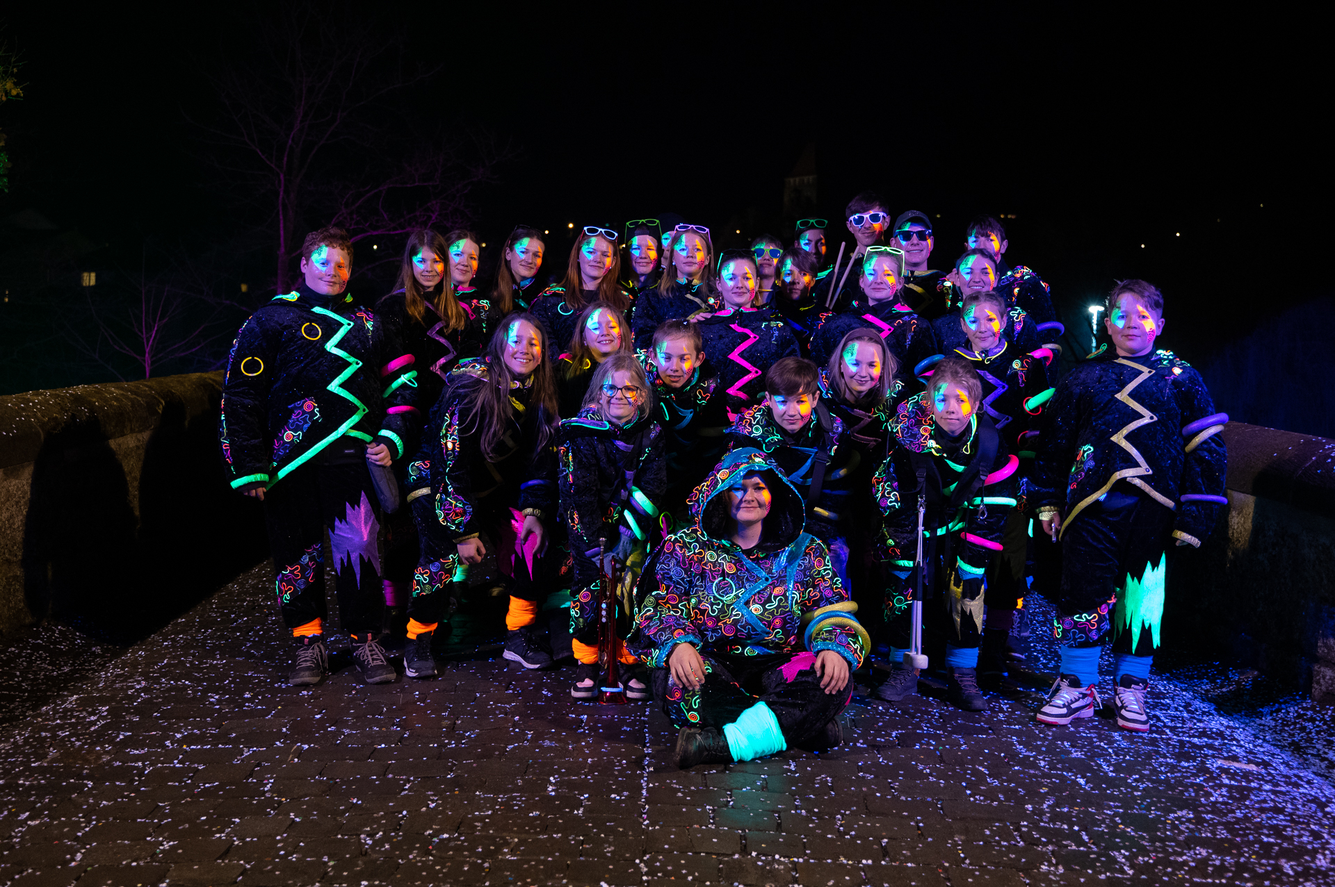
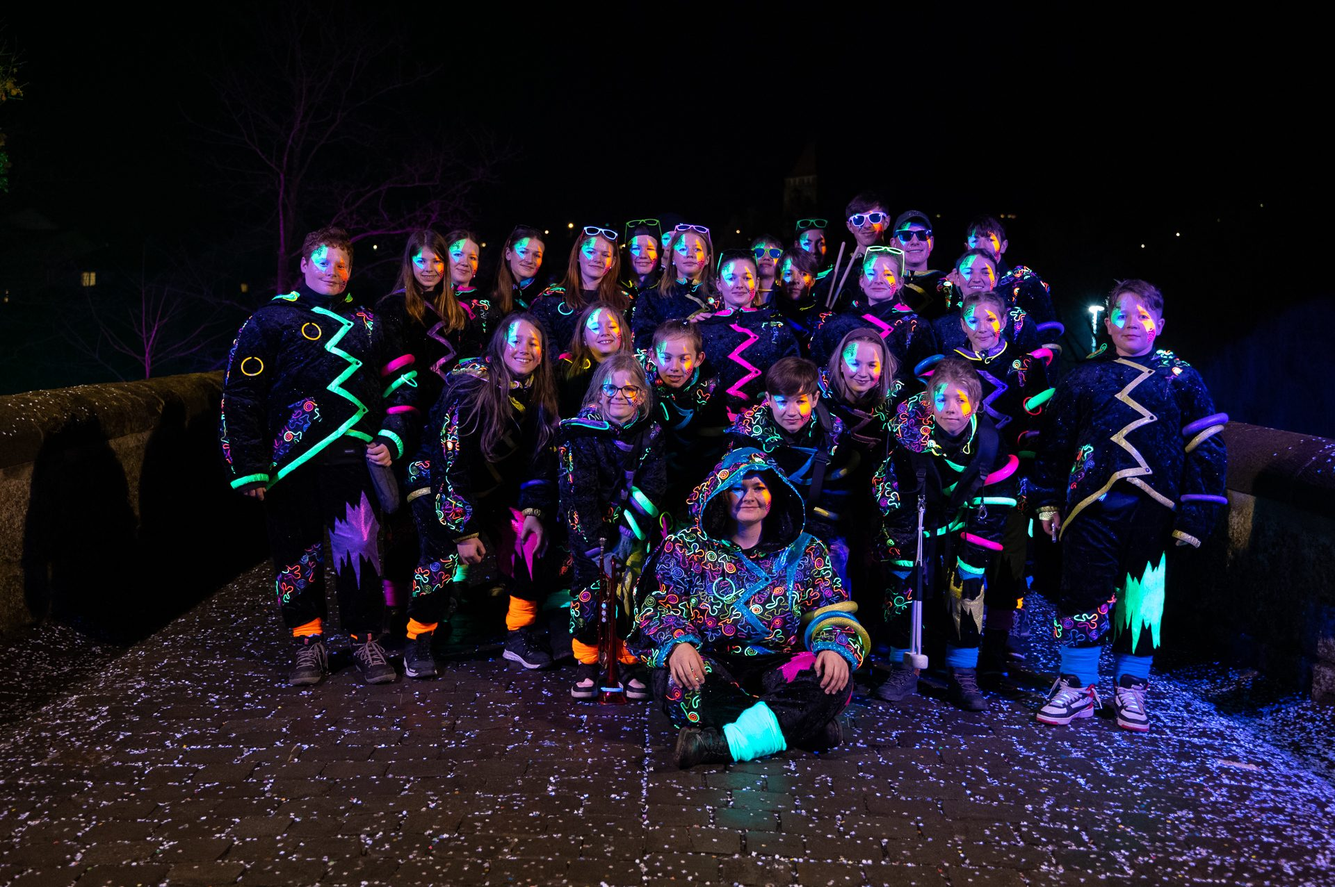
perf(web): bring the image directory from 44.5 MB down to 6 MB
directionmusicale.jpg alone was 19 MB at 6048x4024, and nine more photos were
over 2 MB each — a compression problem rather than a dimension one, since most
were already 1920px wide. Longest edge 1920, JPEG q82, progressive, EXIF
stripped. The logo, comite.jpg, the CD cover and the flyer are untouched: they
are already small and re-encoding them would only soften them.

Checked by eye, not only by byte count: the neon embroidery, face paint and a
handwritten setlist card all survive at q82, in both orientations.

The budget is written into CLAUDE.md, because nothing in the test suite or the
linters can catch a camera original being dropped in.

diff --git a/CLAUDE.md b/CLAUDE.md
@@ -247,6 +247,16 @@ This project ships with [Superpowers](https://github.com/obra/superpowers) skill
 
   The PWA manifest link must keep `crossorigin="use-credentials"`, or the
   manifest fetch fails behind TEST/QA Basic Auth. Previously fixed bug.
+
+  **Photographs have a budget: longest edge 1920px, JPEG quality 82,
+  progressive, no EXIF — roughly 300-600 KB each.** That directory was 44.5 MB
+  before this was enforced, including one 19 MB camera original at 6048x4024,
+  which on a phone at a rehearsal is a page that never finishes loading. Nothing
+  in the test suite or the linters can catch an unprocessed original being
+  dropped in, so it has to be caught here. The logo, `comite.jpg`, `CD_img.png`
+  and `Flyer.jpeg` are deliberately exempt — they are already small, and
+  re-encoding a small image only softens it. Re-encoding is also generational:
+  never run an optimisation pass over already-optimised files.
 - **`web/src/api/generated/` is generated — never hand-edit it.** Change the
   Laravel controller, run `npm run openapi && npm run generate:api`, commit the
   result. CI's `openapi-drift` job fails if either is stale. ESLint ignores the
